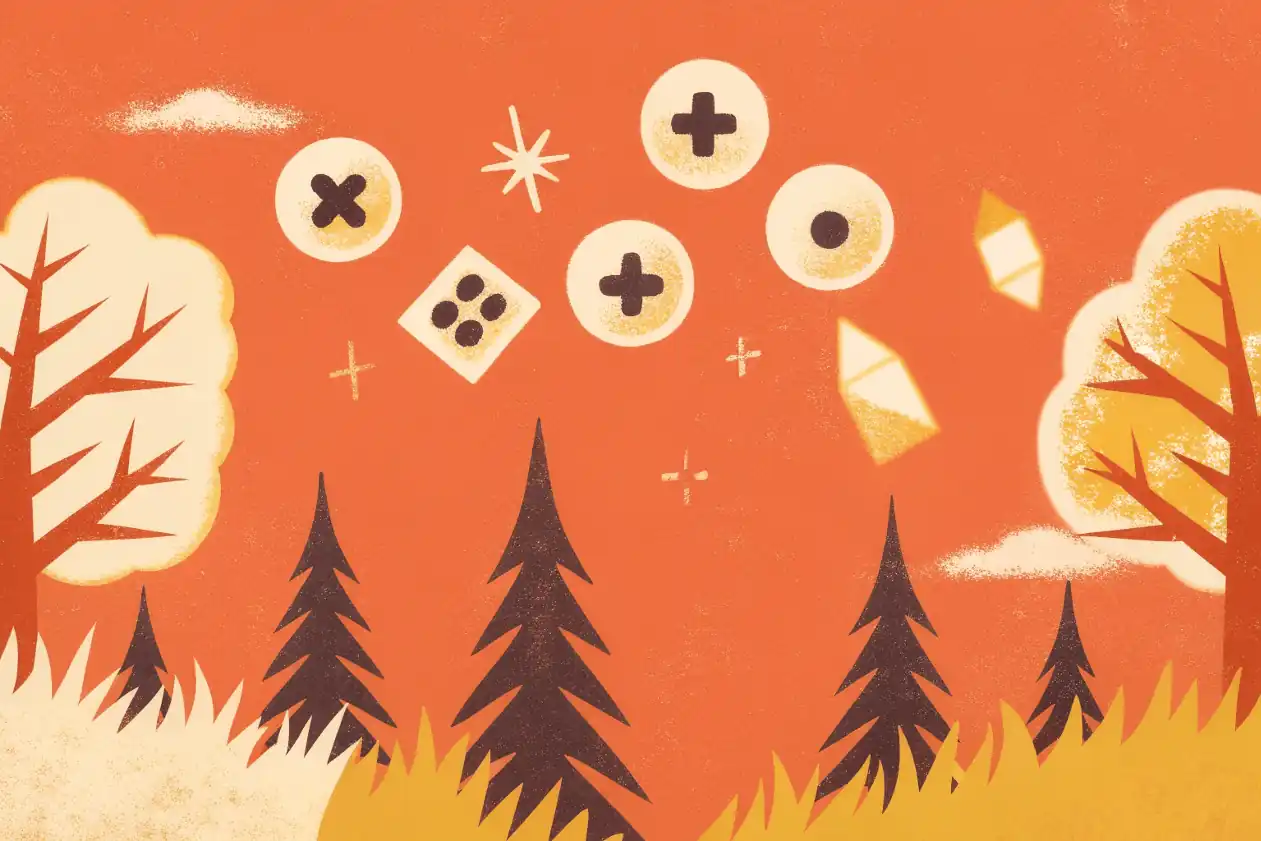
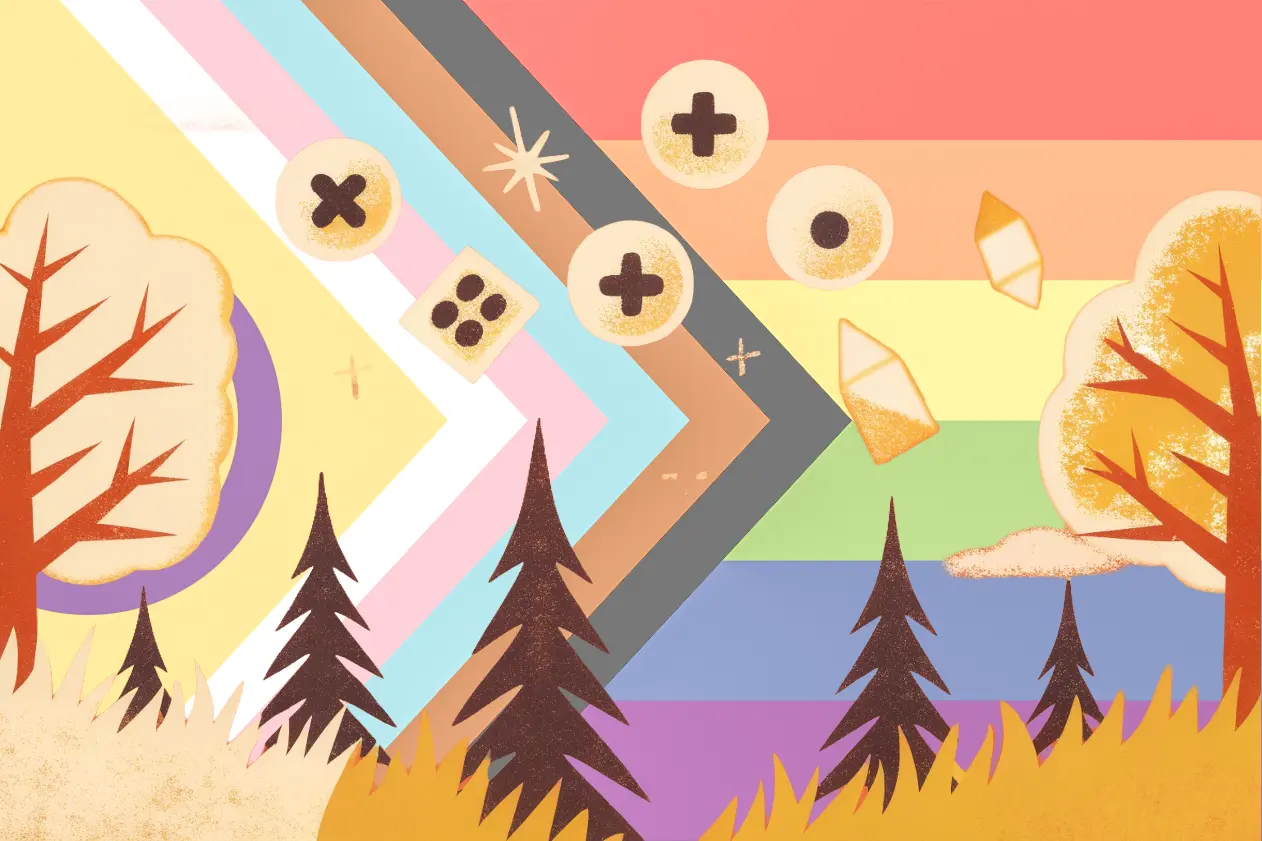
migrate 2025 pride version to current codebase

diff --git a/apps/web/components/Objects/Menus/OrgMenu.tsx b/apps/web/components/Objects/Menus/OrgMenu.tsx
@@ -16,6 +16,7 @@ import logo_black from '@public/dark_logo.svg'
 
 // Farbschema-Variablen
 const GRADIENT = 'linear-gradient(135deg,var(--color-SokratesLightGray) 0%,var(--color-SokratesWhite) 100%)'
+const GRADIENT_PRIDE = 'linear-gradient(135deg, #FFFFFF 0%, #FFFFFF 9%, #ffd2d9 9%, #ffd2d9 18%, #b7e8ee 18%, #b7e8ee 27%, #e2a175 27%, #e2a175 36%, #787878 36%, #787878 45%, #ff8177 45%, #ff8177 55%, #ffbe8e 55%, #ffbe8e 64%, #fff8a8 64%, #fff8a8 73%, #bfde8f 73%, #bfde8f 82%, #91a1cf 82%, #91a1cf 91%, #be7abd 91%, #be7abd 100%)'
 const BORDER = '2px solid var(--color-SokratesGrayBorder)'
 const SHADOW = '0 2px 0 var(--color-SokratesBlackBoxShadow)'
 const DROP_SHADOW = 'drop-shadow(0px 2px 2px rgba(69, 69, 69, 0.15))'
@@ -63,7 +64,7 @@ export const OrgMenu = ({ orgslug }: { orgslug: string }) => {
             className="relative flex h-12 sm:h-14 md:h-16 lg:h-[71px] w-full
                          items-center px-6 text-SokratesBlackBoxShadow/90"
             style={{
-              background: GRADIENT,
+              background: GRADIENT_PRIDE,
               border: BORDER,
               boxShadow: SHADOW,
               filter: DROP_SHADOW,
@@ -299,7 +300,9 @@ function Avatar({ session, org, isUserAdmin, onLogout }: any) {
 
 function railStyle(side: 'left' | 'right'): React.CSSProperties {
   return {
-    background: GRADIENT,
+    background: side === 'left'
+      ? GRADIENT_PRIDE
+      : GRADIENT,
     border: BORDER,
     boxShadow: SHADOW,
     filter: DROP_SHADOW,

diff --git a/apps/web/app/layout.tsx b/apps/web/app/layout.tsx
@@ -11,6 +11,7 @@ import StyledComponentsRegistry from '../components/Utils/libs/styled-registry'
 import SokratesSessionProvider from '@components/Contexts/SokratesSessionContext'
 import WebSocketNotifications from '@components/Notifications/WebSocketNotifications'
 import { Toaster } from '@/components/ui/toaster'
+import Footer from '../components/Objects/Footer'
 
 const dmSans = DM_Sans({
   subsets: ['latin'],
@@ -75,6 +76,7 @@ export default function RootLayout({ children }: { children: ReactNode }) {
           >
             {children}
           </motion.main>
+          <Footer />
         </AppProviders>
       </body>
     </html>

diff --git a/apps/web/components/Objects/Footer.tsx b/apps/web/components/Objects/Footer.tsx
@@ -1,0 +1,22 @@
+import React from 'react'
+
+const Footer = () => (
+  <footer
+    style={{
+      width: '100%',
+      padding: '1rem',
+      textAlign: 'center',
+      color: '#333',
+      marginTop: '2rem',
+      position: 'fixed',
+      zIndex: 999,
+      bottom: 0,
+      overflowX: 'hidden',
+      gap: '1rem'
+    }}
+  >
+    <div className="font-semibold">MADE&nbsp;WITH ❤🧡💛💚💙💜 IN&nbsp;POTSDAM</div>
+  </footer>
+)
+
+export default Footer
